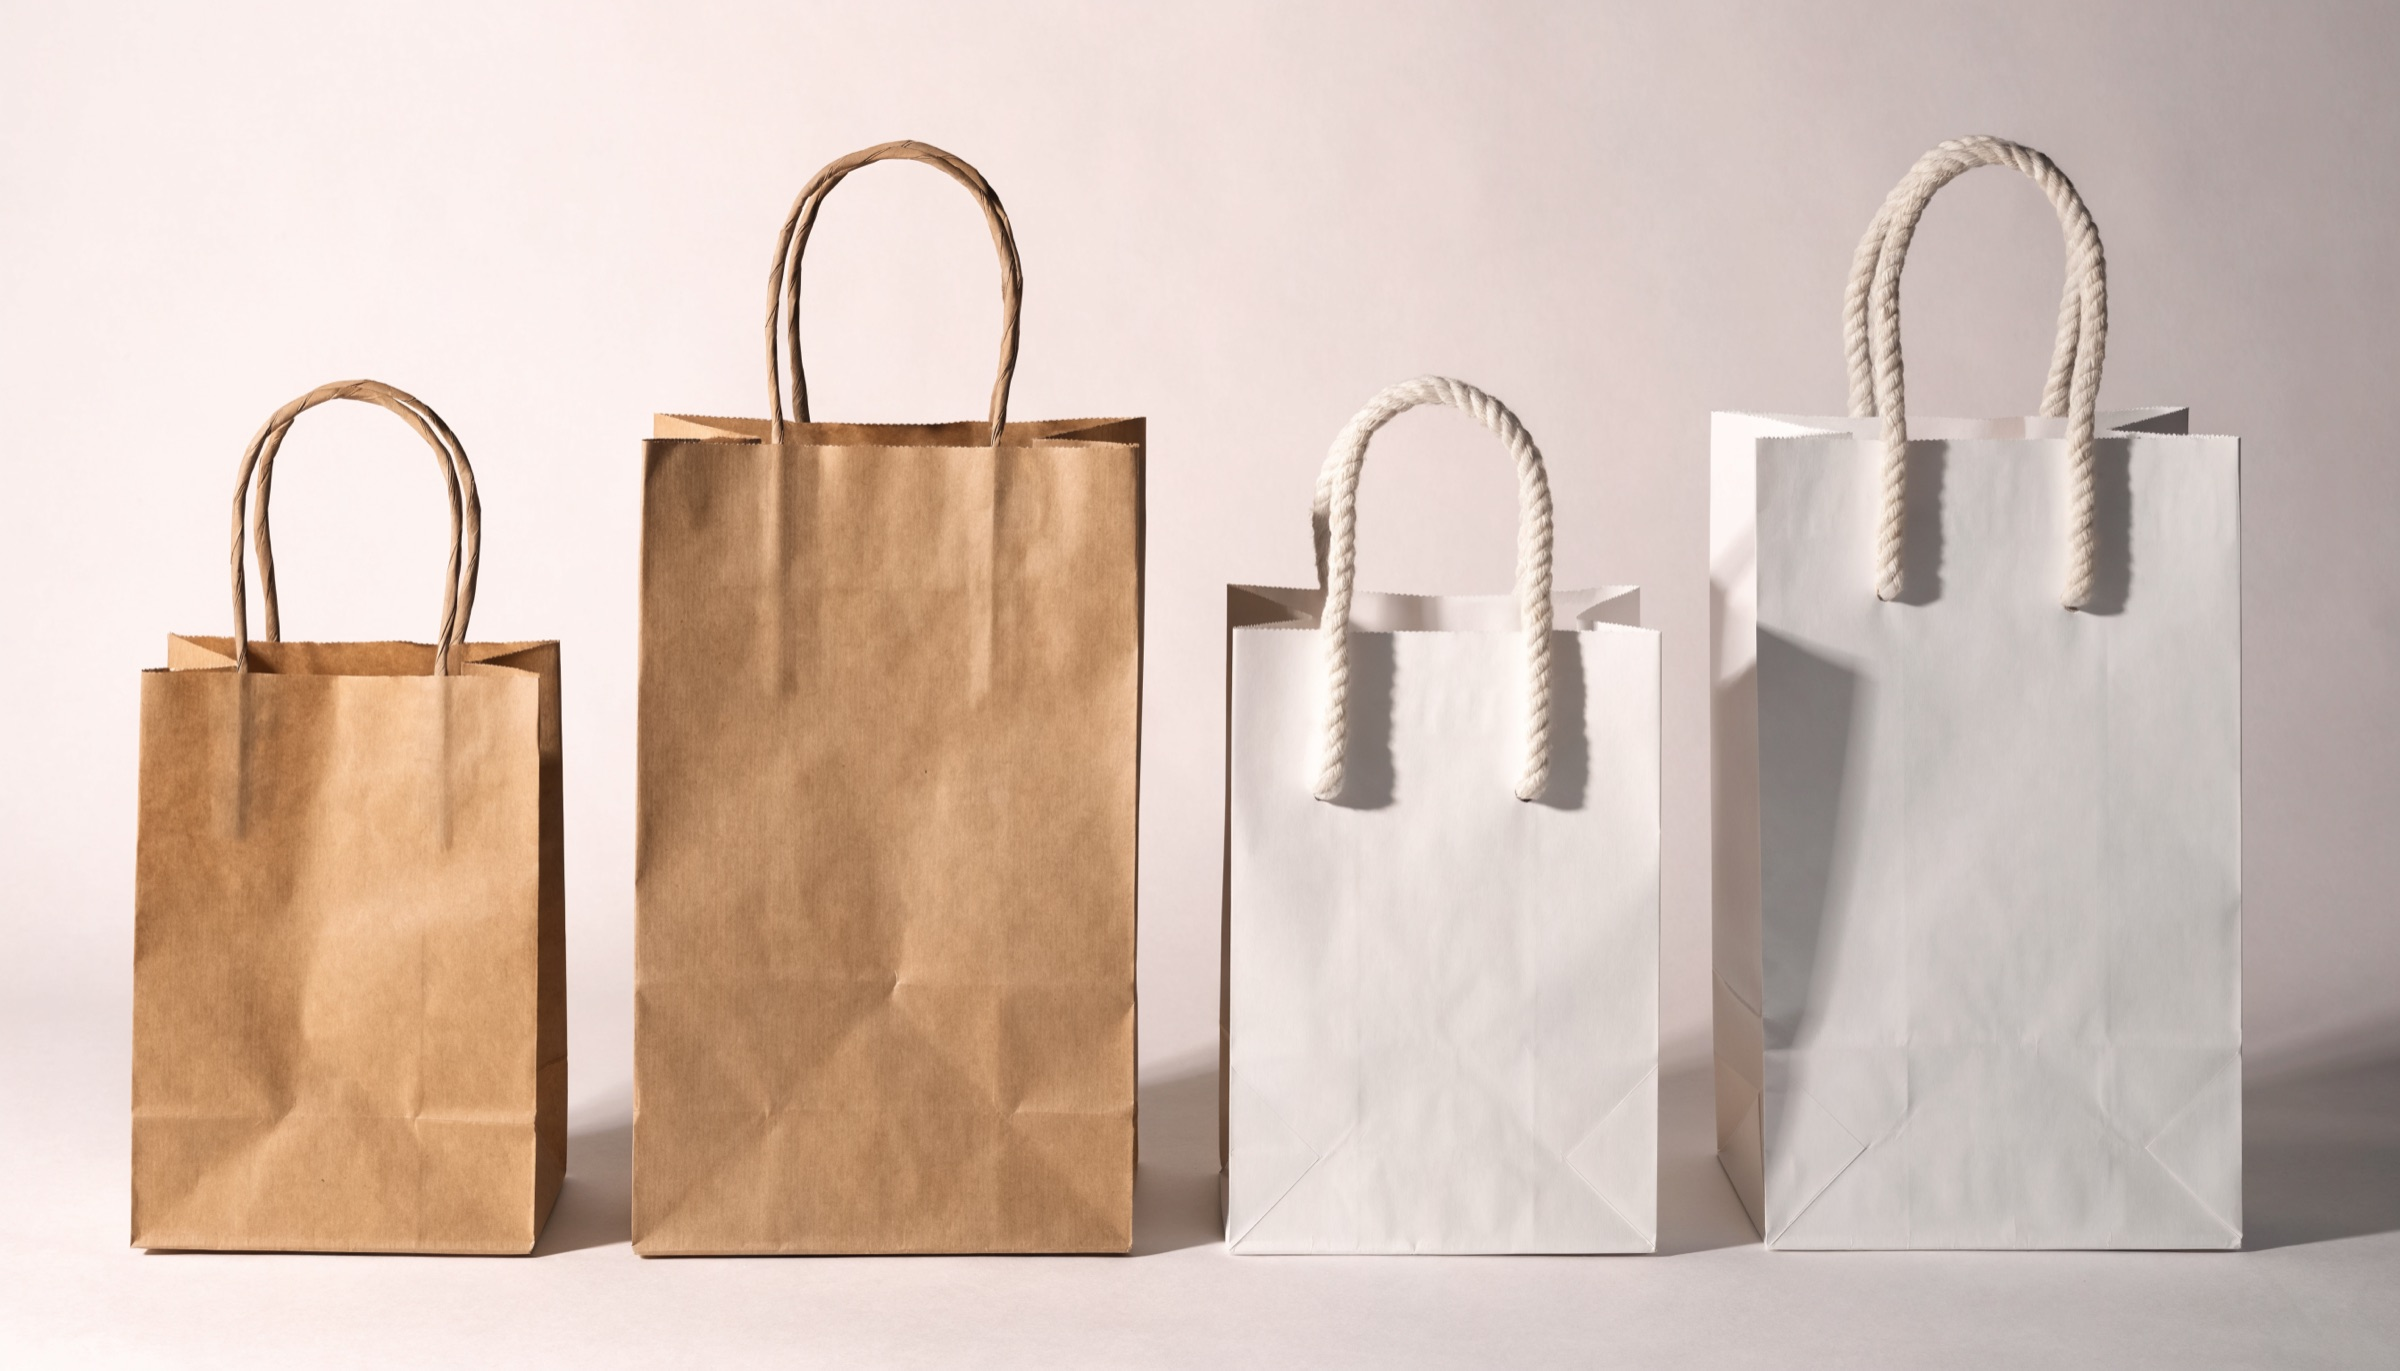
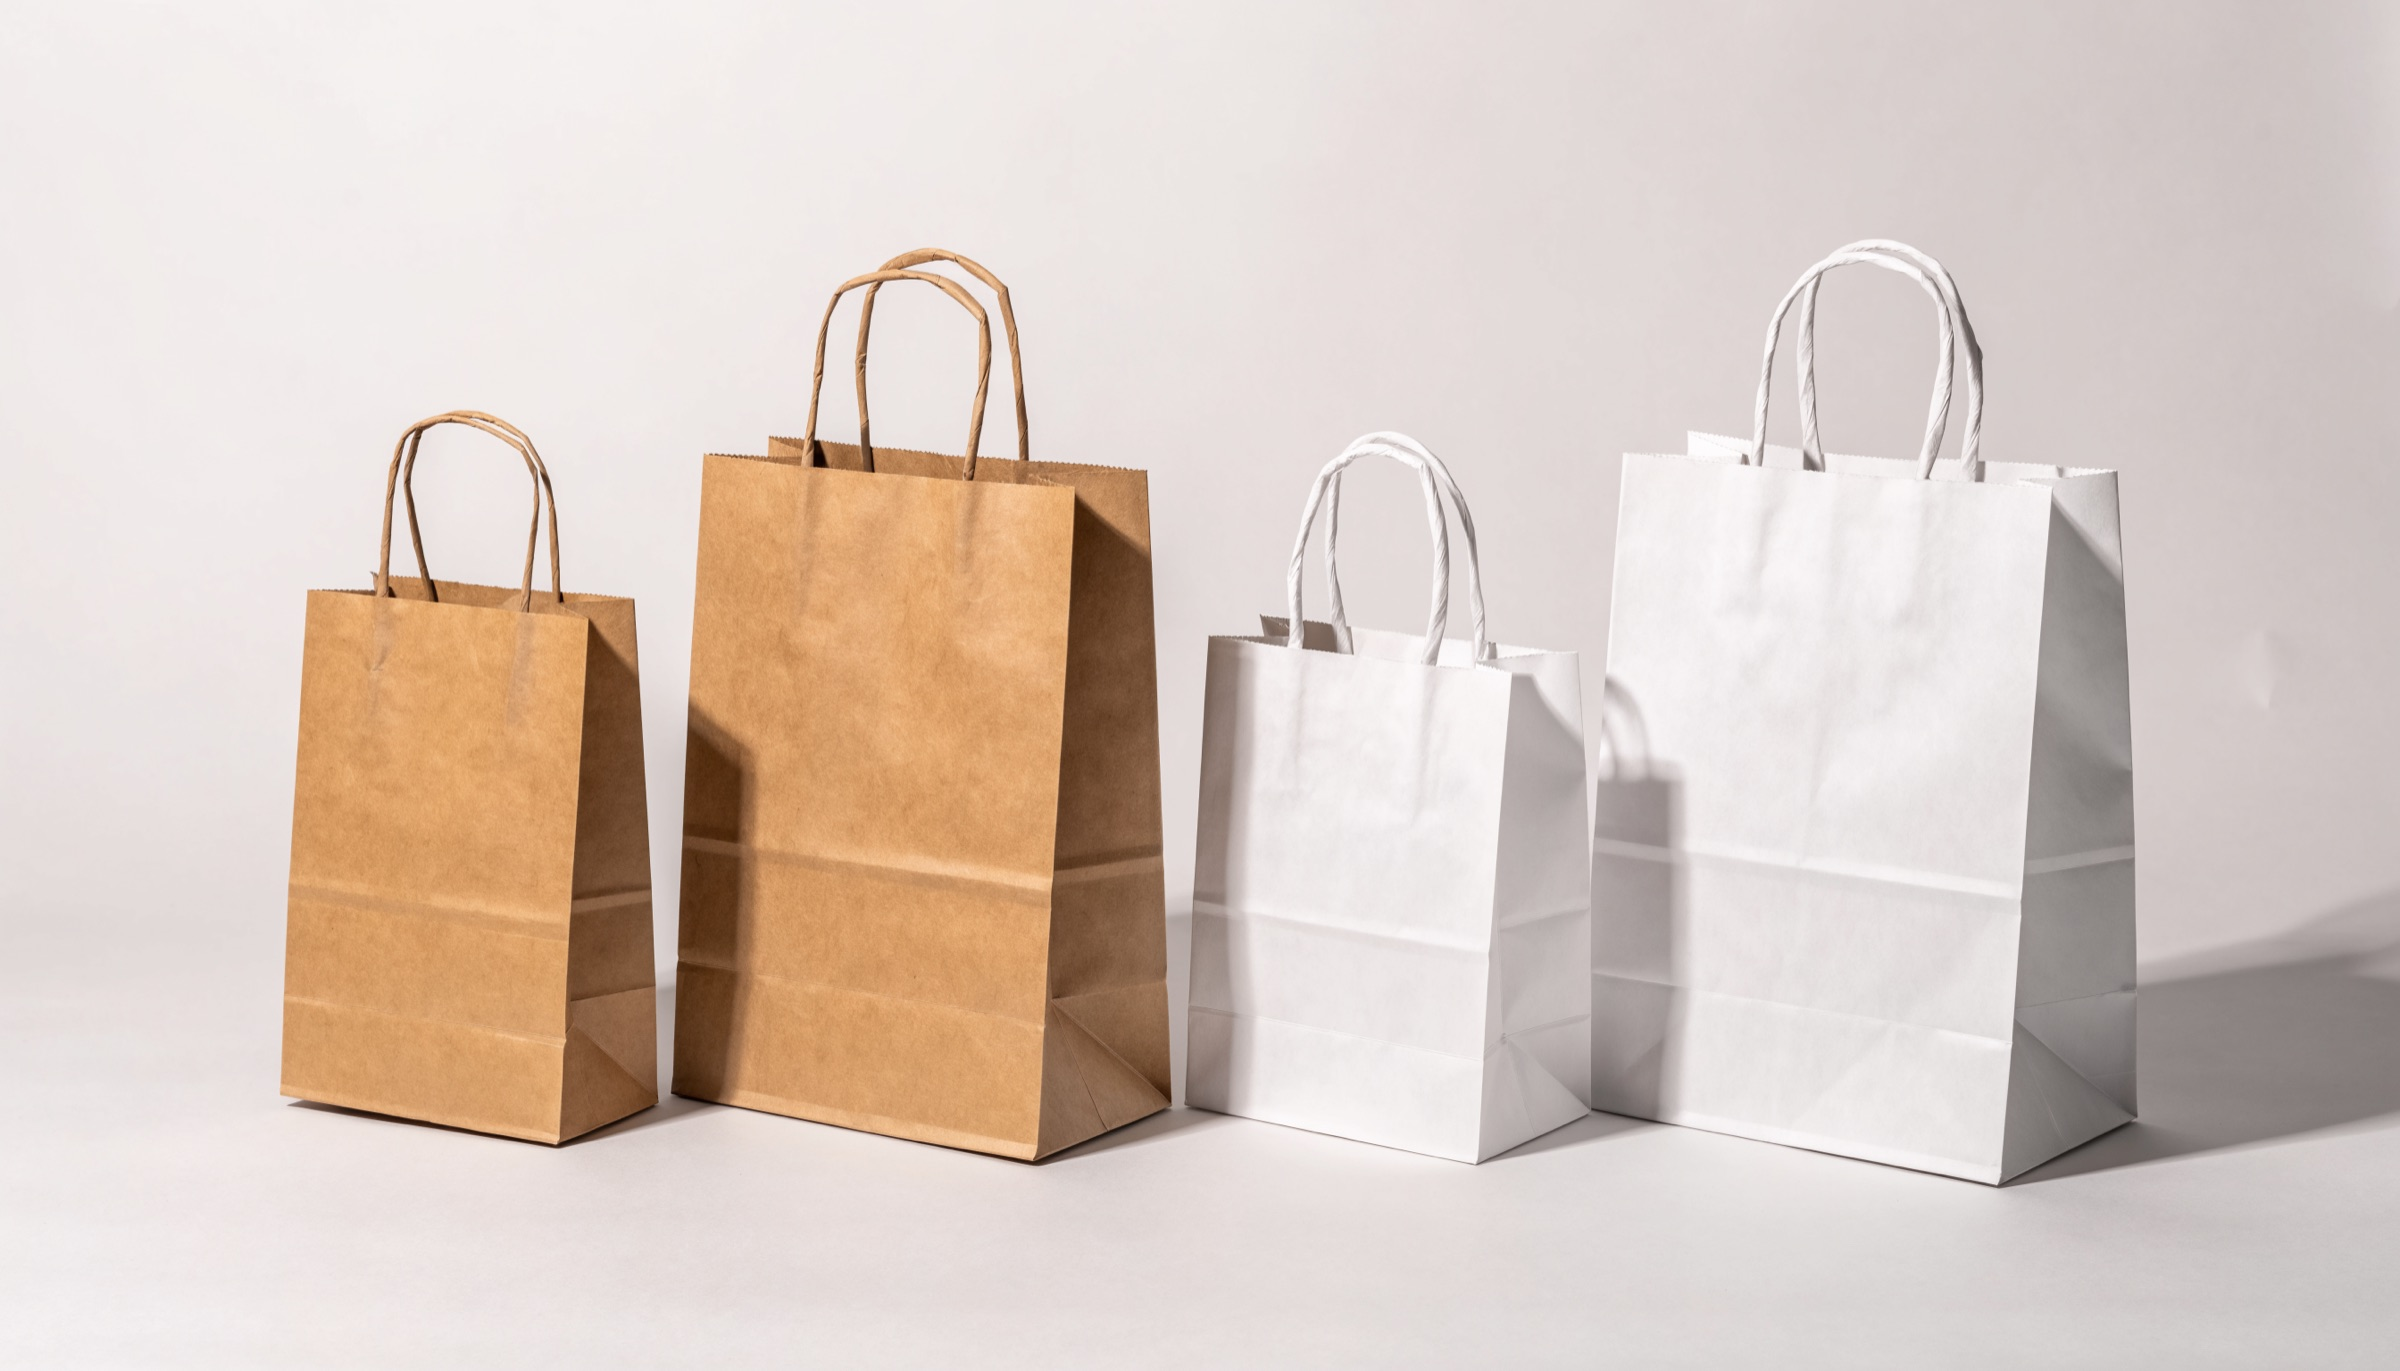
fix(hospitality): replace bags render, handles were too thick
The white bags carried thick marine-rope handles, which is not what a
premium paper carry bag uses. Swaps in a variant where all four bags
have slim twisted paper handles, consistent across kraft and white.

Copy and alt text follow: "premium rope-handle" becomes "premium white",
since the image no longer shows rope handles.

diff --git a/lib/hospitality.ts b/lib/hospitality.ts
@@ -111,10 +111,10 @@ export const CATEGORIES: SupplyCategory[] = [
     eyebrow: 'Bags & takeaway',
     title: 'What leaves with the guest.',
     body:
-      'Kraft carry bags for everyday outlet use and premium rope-handle bags for retail, boutique, and gifting. The last thing a guest is handed, so the paper weight and the finish carry the property name.',
-    tags: ['Kraft carry bags', 'Premium rope-handle', 'Retail & gifting'],
+      'Kraft carry bags for everyday outlet use and premium white bags for retail, boutique, and gifting. The last thing a guest is handed, so the paper weight and the finish carry the property name.',
+    tags: ['Kraft carry bags', 'Premium white', 'Retail & gifting'],
     image: '/products/hospitality/paper-bags.jpg',
-    alt: 'Kraft paper carry bags with twisted handles and premium white bags with rope handles',
+    alt: 'Kraft and white paper carry bags with twisted paper handles, two sizes each',
     /** Spans the full grid width so five cards leave no orphan cell. */
     wide: true,
   },
